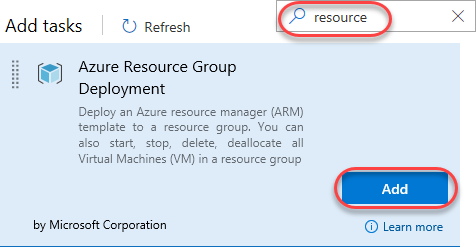
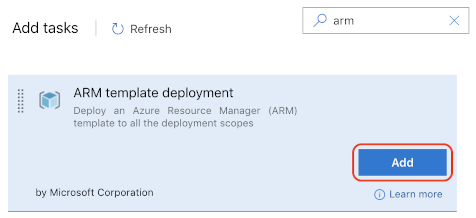
Update steps (#443)
* fix typo

* Updated to current steps

diff --git a/labs/vstsextend/github-azurepipelines/readme.md b/labs/vstsextend/github-azurepipelines/readme.md
@@ -351,7 +351,7 @@ From the results, we can see all 40 tests have passed which means we have not br
 
     ![](images/image17.png)
 
-1.  **Enable** continuous integration, if it is not already enabled.
+1.  **Enable** continuous deployment, if it is not already enabled.
 
     ![](images/image18.png)
 
@@ -388,14 +388,18 @@ From the results, we can see all 40 tests have passed which means we have not br
 
     ![](images/image24.png)
 
-1. Search for **"resource"** and **Add** an **Azure Resource Group
-    Deployment** task.
+1. Search for **"arm"** and **Add** an **ARM template
+    deployment** task.
 
     ![](images/image25.png)
 
 1. Select the newly created task.
 
     ![](images/image26.png)
+
+    Then, select the **Task version** to **2.\***.
+
+    ![](images/image26-1.png)
 
 1. Select and authorize an Azure subscription. 
 
@@ -422,7 +426,7 @@ From the results, we can see all 40 tests have passed which means we have not br
     ![](images/image-release3.png)
 
     Template:
-    **\$(System.DefaultWorkingDirectory)/\_ContosoAir-CI/drop/Templates/azuredeploy.json**
+    **\$(System.DefaultWorkingDirectory)/\_ContosoAir-CI/drop/Templates/azuredeploy.json**  
     Template parameters:
     **\$(System.DefaultWorkingDirectory)/\_ContosoAir-CI/drop/Templates/azuredeploy.parameters.json**
 
